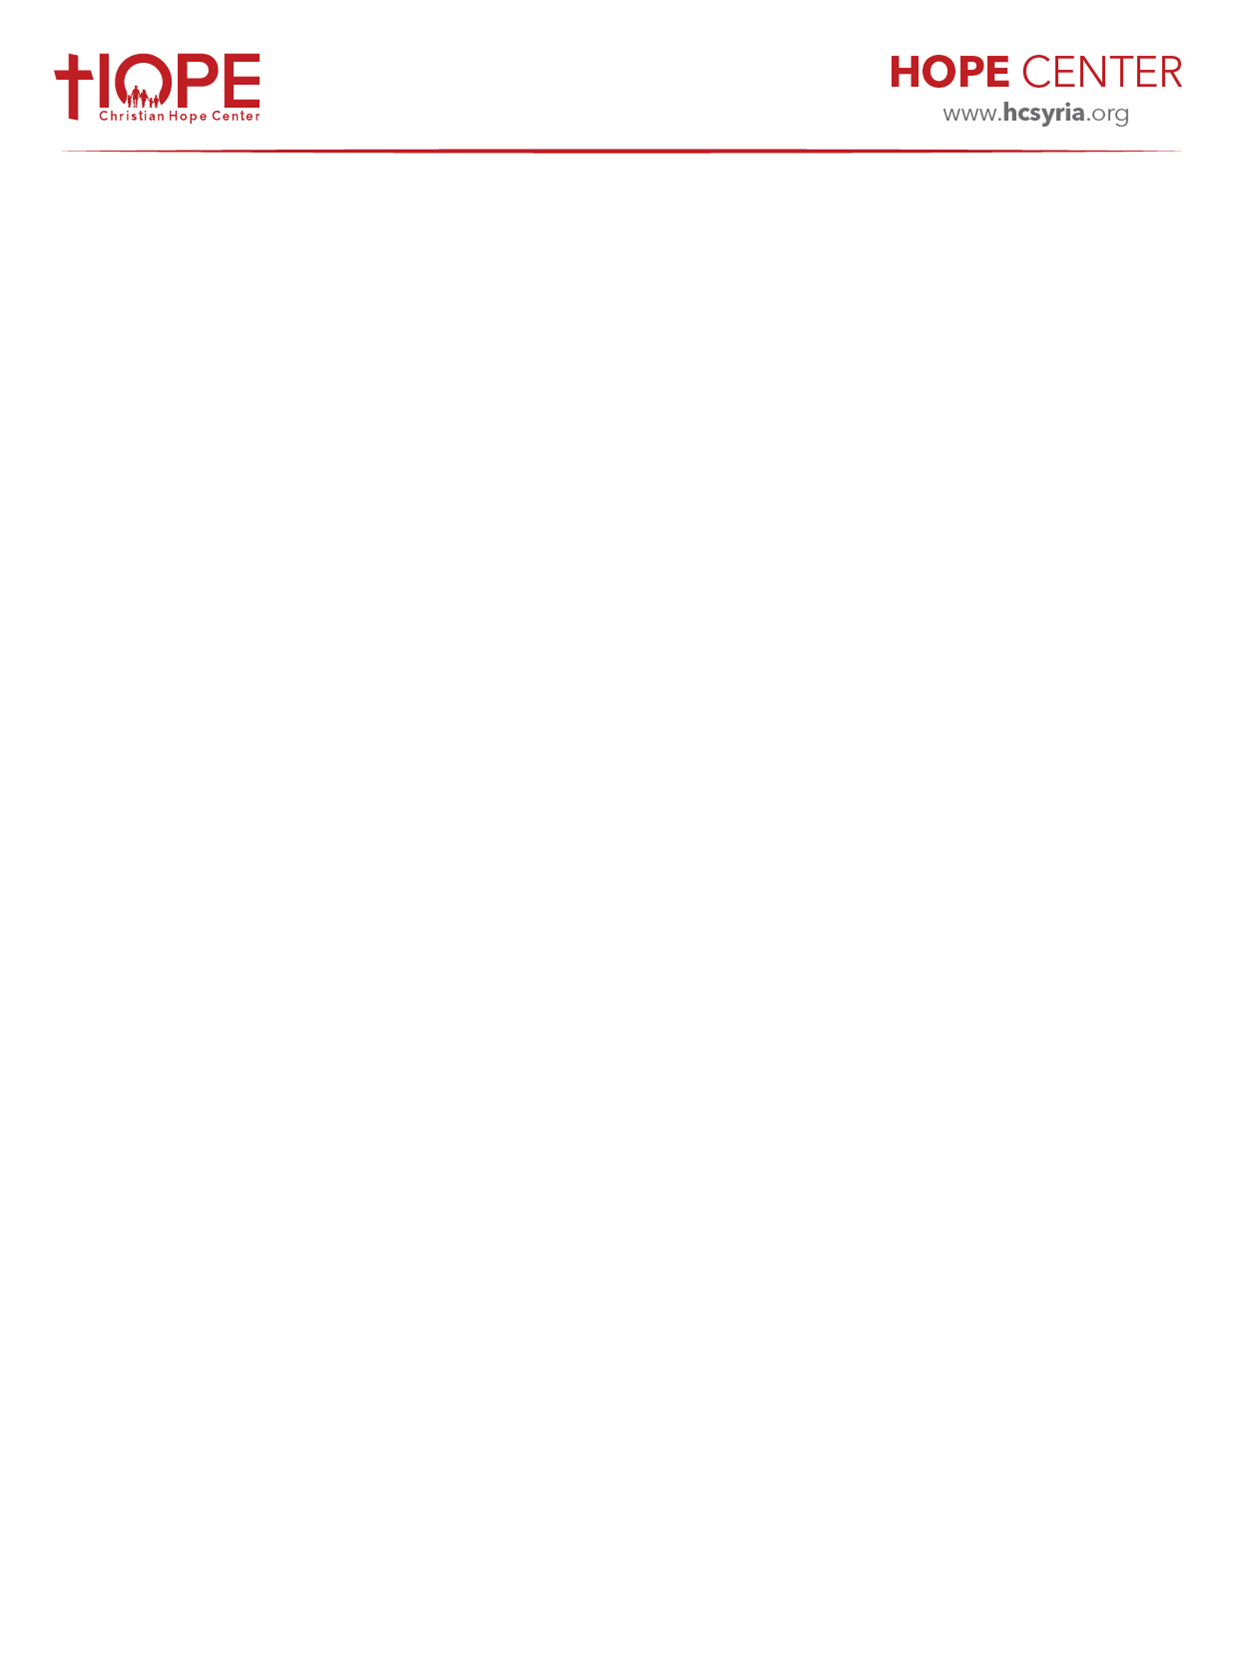
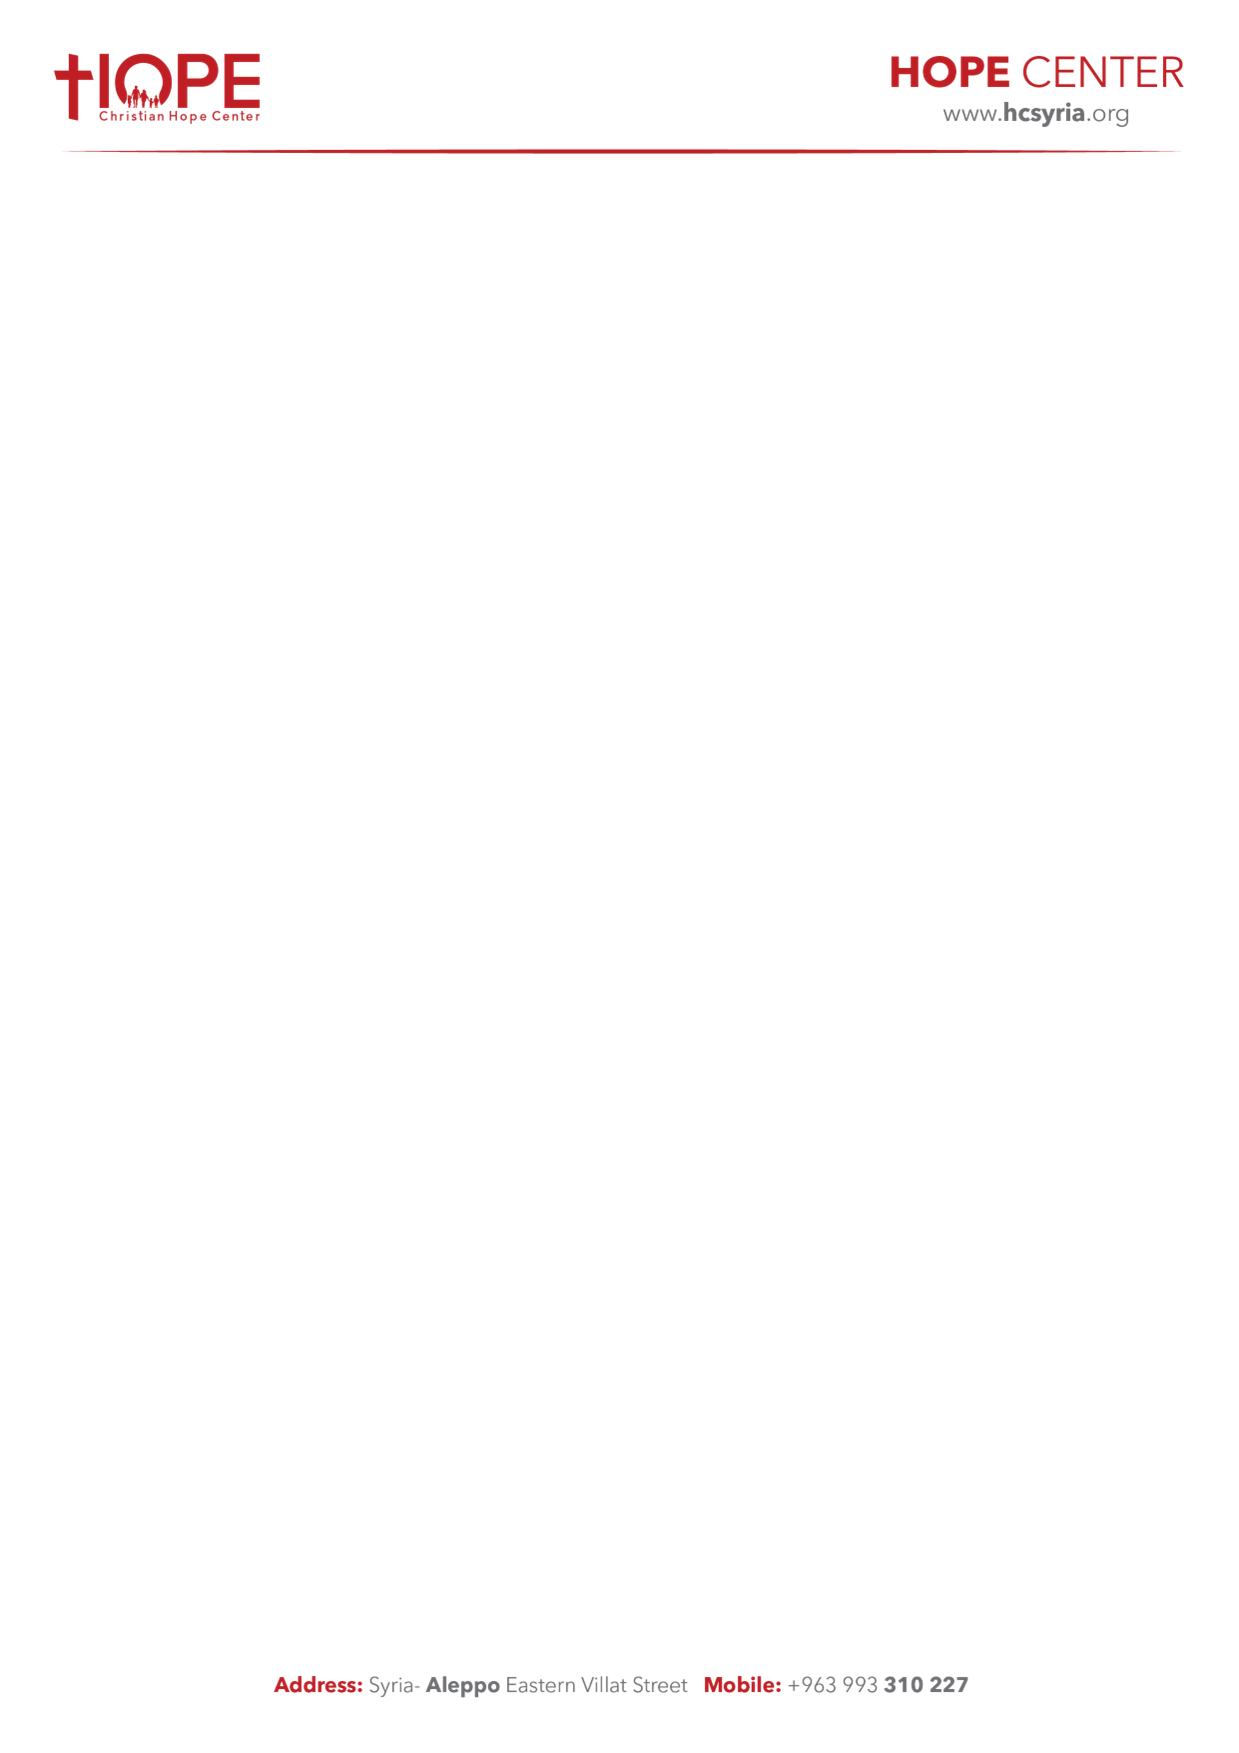
ADD: header png

Changed region(s): [[0.0614, 0.0308, 0.9515, 0.0923], [0.2149, 0.9536, 0.7674, 0.9843]]

diff --git a/resources/views/livewire/contract/details/print-dompdf.blade.php b/resources/views/livewire/contract/details/print-dompdf.blade.php
@@ -2,7 +2,7 @@
     $dir        = ($locale ?? app()->getLocale()) === 'ar' ? 'rtl' : 'ltr';
 
     // Header asset (must live under public/ due to dompdf chroot)
-    $headerSrc  = public_path('assets/img/Header.svg');
+    $headerSrc  = public_path('assets/img/HC_SYR_Header2.png');
 
     // Tuning (mm)
     $HEADER_HEIGHT_MM = 24;
@@ -33,7 +33,7 @@
 
         /* Header (unchanged) */
         .page-header{ position: relative; top:0; left:0; right:0; height: {{ $HEADER_HEIGHT_MM }}mm; }
-        .page-header img{ position:absolute; top:15px; left:40px; right:0; width:91%; }
+        .page-header img{ position:absolute; top: -10px ; left:-2px; right:0; width:100%; }
 
         .pdf-page{ page-break-after:always; padding:0 50px; }
         .pdf-page:last-child{ page-break-after:auto; }
